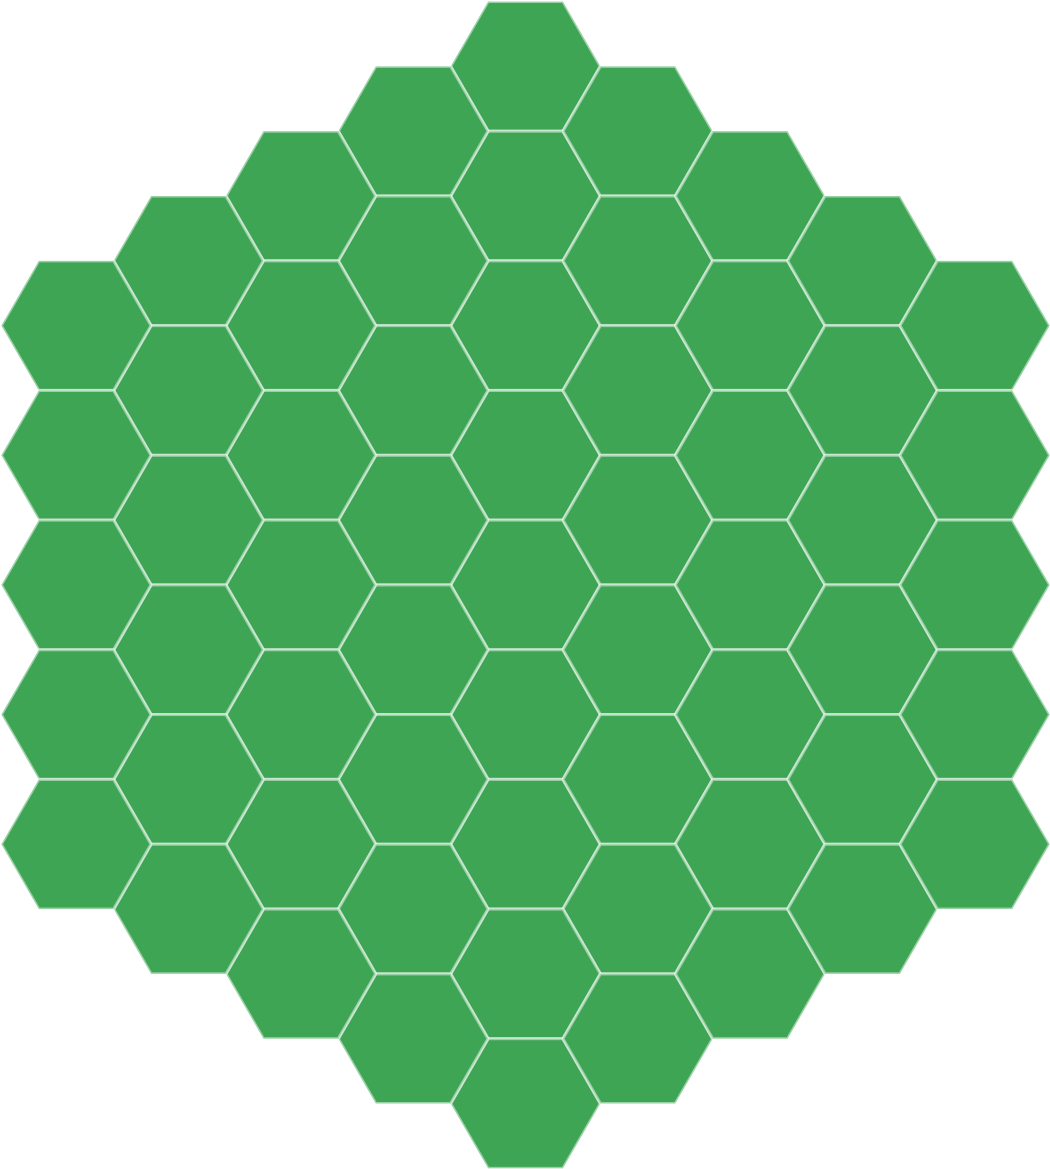
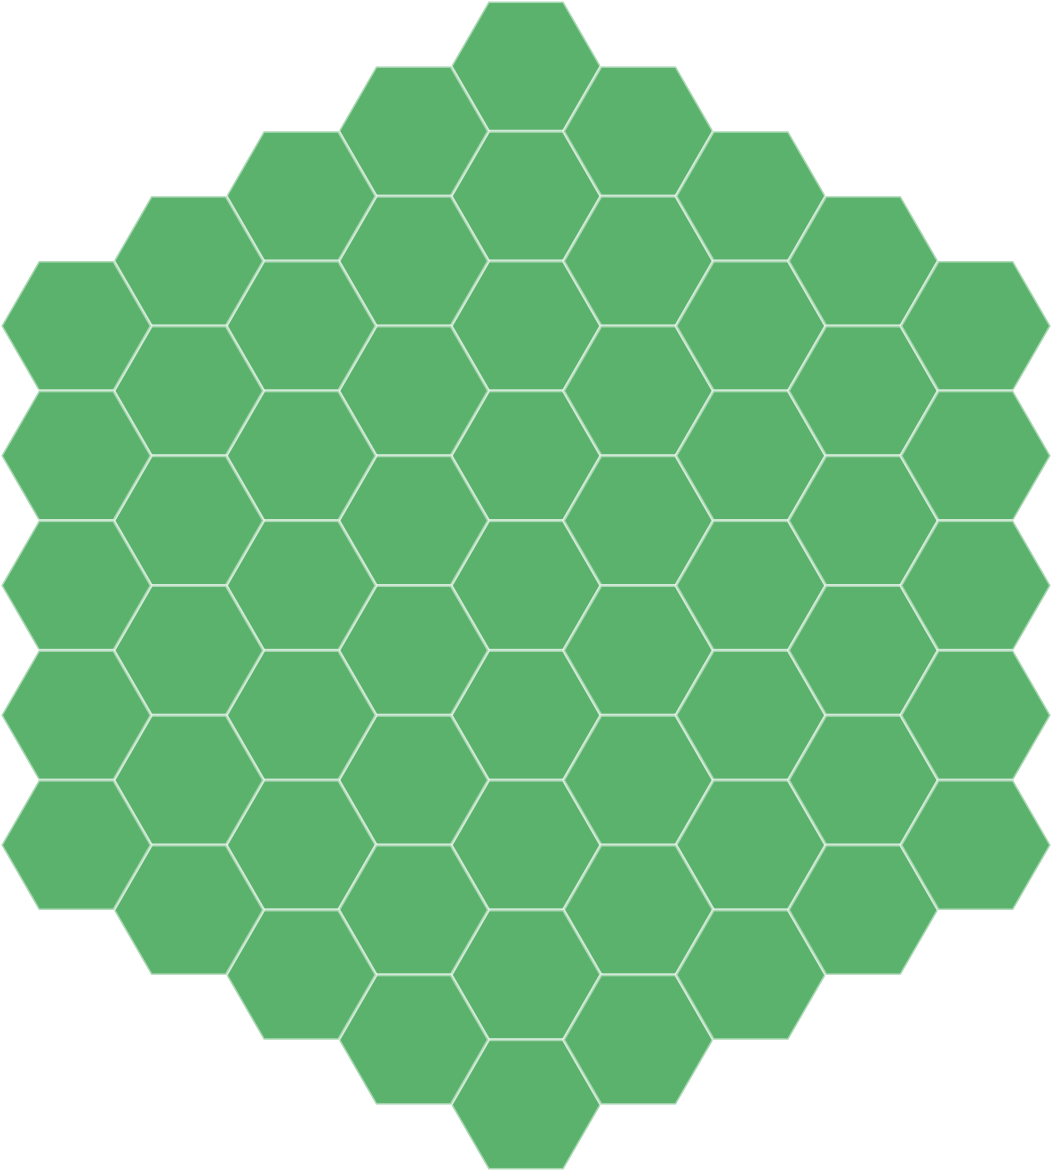
Reduced thick lines at border + Remove console logs

diff --git a/src/server/game.ts b/src/server/game.ts
@@ -125,15 +125,9 @@ export default class Game {
 			this.collision.campfirePlayerCollision(aCampfire);
 
 			if (aCampfire.captureProgress == 100) {
-				console.log('captured : ' + aCampfire.id);
 				aCampfire.checkForCapture();
-
 				const isCaptured = aCampfire.isCaptured;
 				const points = aCampfire.territoryPoints;
-
-				console.log('isCaptured : ' + aCampfire.isCaptured);
-				console.log('teamNum : ' + aCampfire.teamNumber);
-
 				if (isCaptured) {
 					// If captured, updated numCapturedCamps
 					this.teams.getTeam(aCampfire.capturingTeam)
